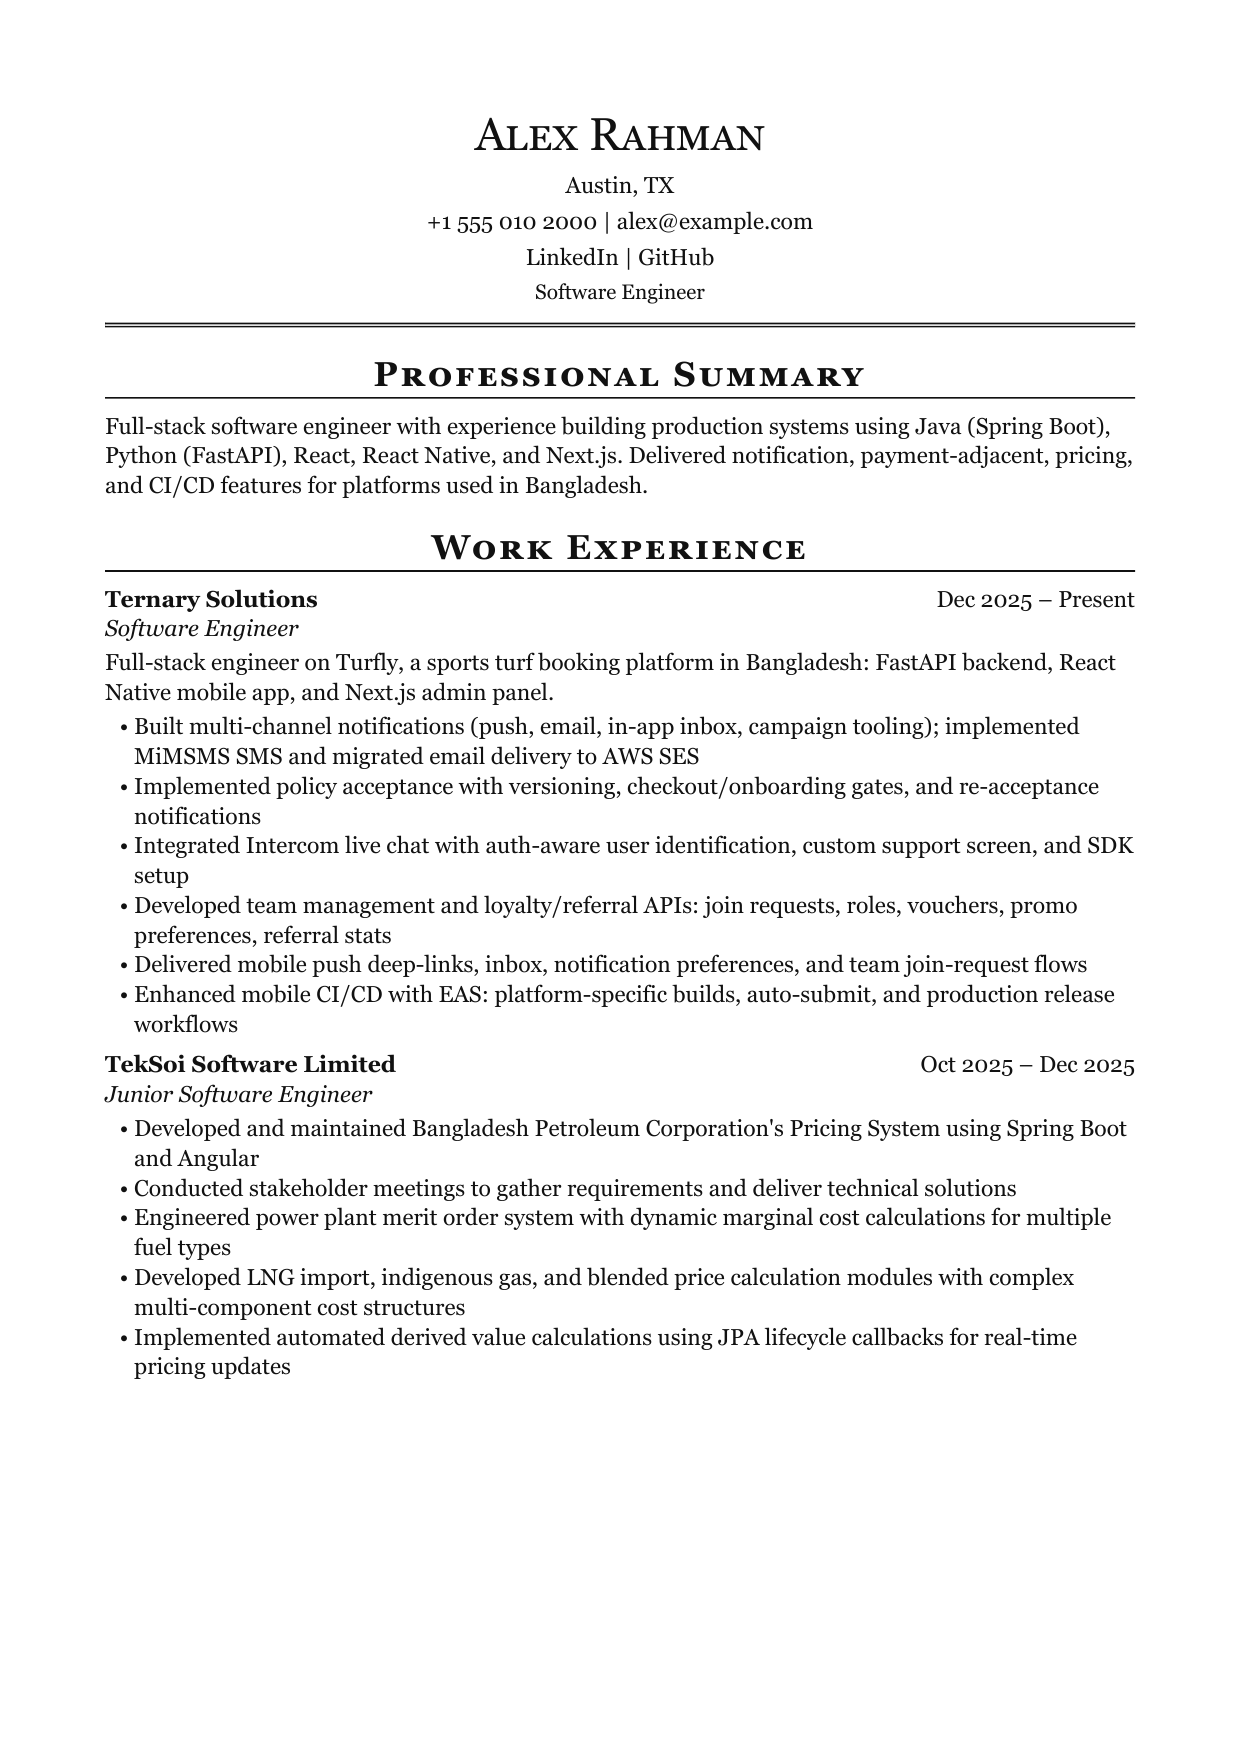
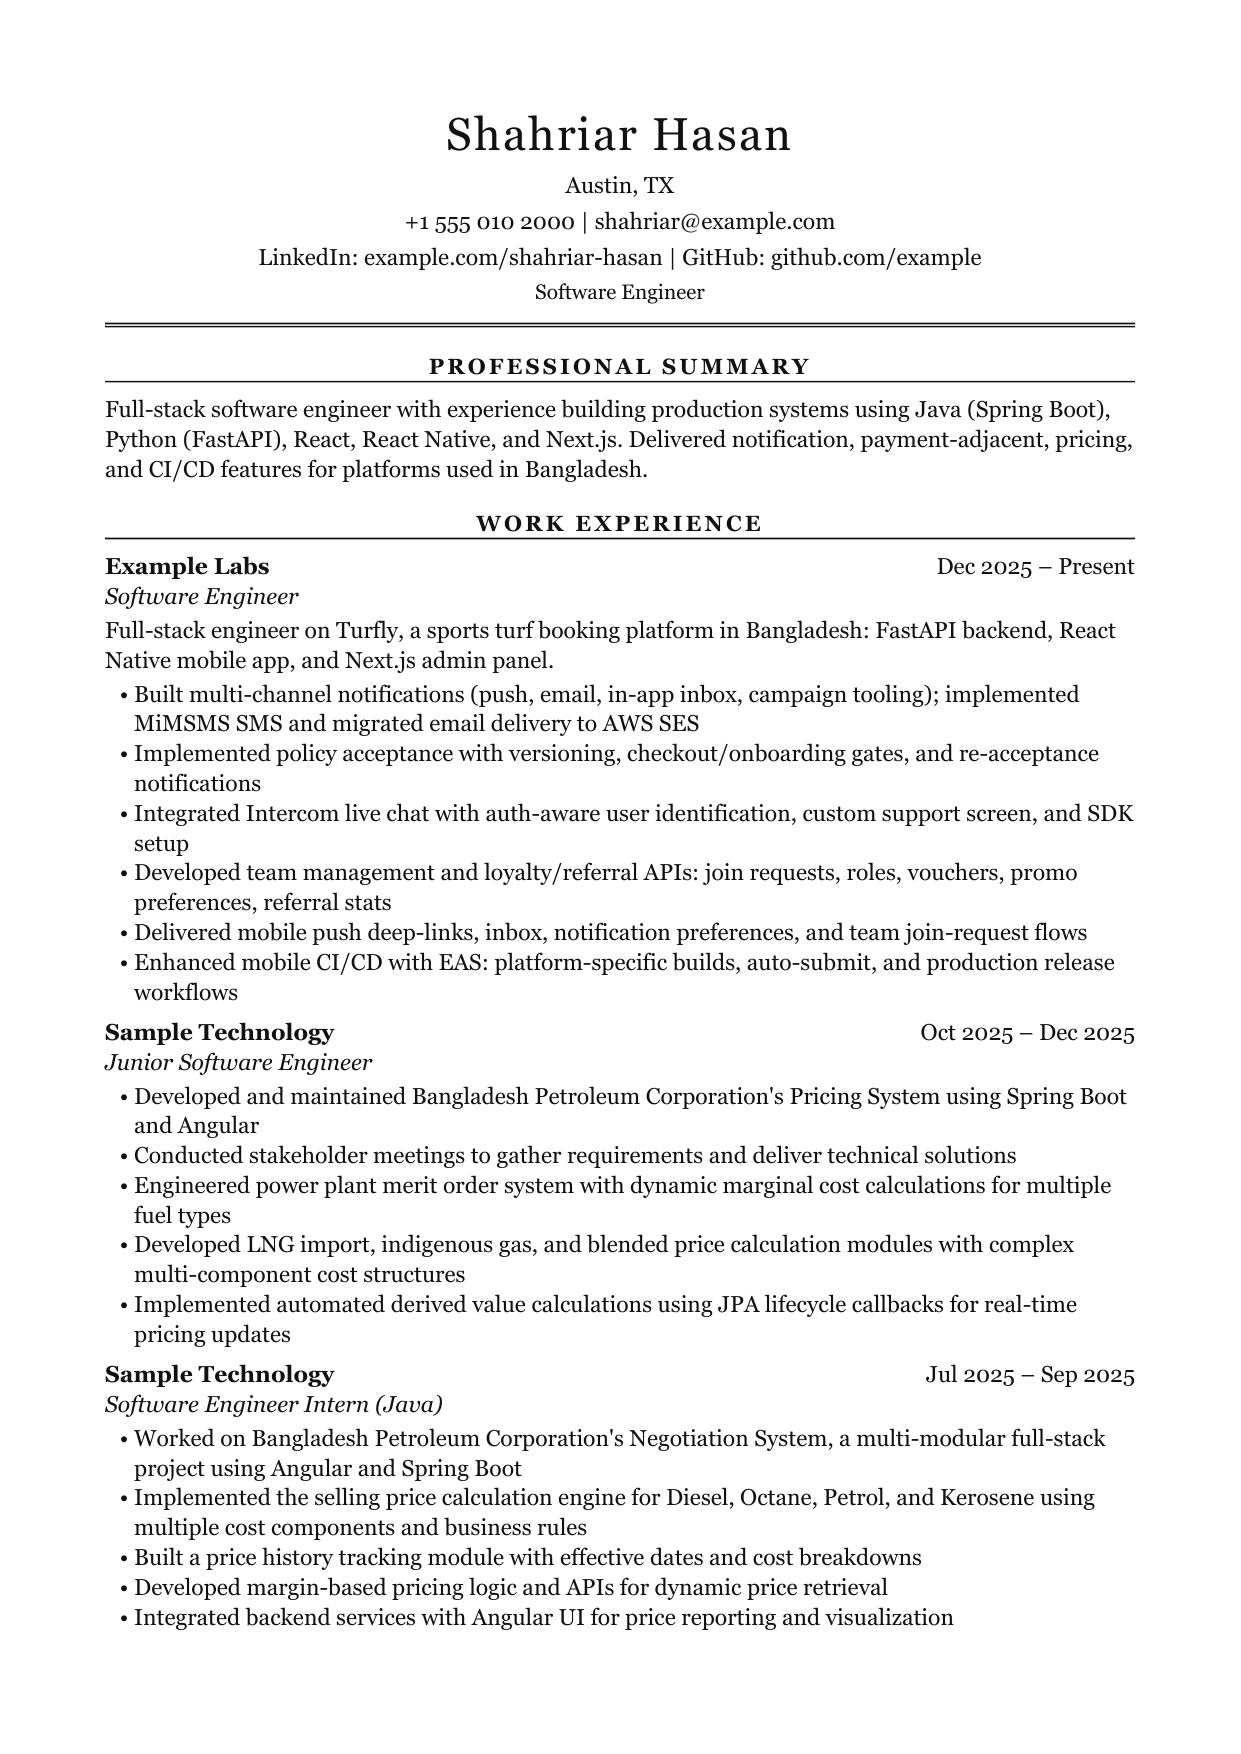
fix(builder): use neutral Shahriar Hasan sample thumbnails

diff --git a/frontend/src/features/builder/components/TemplatePicker.tsx b/frontend/src/features/builder/components/TemplatePicker.tsx
@@ -60,7 +60,7 @@ export function TemplatePicker() {
         <button
           type="button"
           onClick={() => setReloadCount((count) => count + 1)}
-          className="min-h-11 rounded-lg border border-slate-300 px-4 py-2 font-semibold text-slate-800 hover:bg-slate-50 focus-visible:outline focus-visible:outline-2 focus-visible:outline-blue-700"
+          className="min-h-11 rounded-lg border border-line px-4 py-2 font-semibold text-ink hover:bg-paper-2 focus-visible:outline focus-visible:outline-2 focus-visible:outline-accent"
         >
           Retry templates
         </button>
@@ -129,8 +129,8 @@ export function TemplatePicker() {
               </span>
             )}
             <img
-              src={`/thumbnails/${template.id}-480.webp`}
-              srcSet={`/thumbnails/${template.id}-480.webp 480w, /thumbnails/${template.id}-900.webp 900w`}
+              src={`/thumbnails/landing-${template.id}-480.webp`}
+              srcSet={`/thumbnails/landing-${template.id}-480.webp 480w, /thumbnails/landing-${template.id}-900.webp 900w`}
               sizes="(max-width: 420px) 90vw, 300px"
               alt=""
               width={480}

diff --git a/frontend/src/features/landing/sections/ParserDemo.tsx b/frontend/src/features/landing/sections/ParserDemo.tsx
@@ -20,10 +20,10 @@ function PageMock({ activeTab }: { activeTab: DemoTab }) {
       className="relative min-h-64 overflow-hidden rounded-sm border border-line bg-white p-5 shadow-paper sm:p-7"
     >
       <p className="border-b border-line pb-3 font-display text-lg font-semibold text-ink">
-        Alex Rahman
+        Shahriar Hasan
       </p>
       <p className="mt-2 border-b border-line pb-3 text-xs text-ink-muted">
-        Software Engineer · alex@example.com
+        Software Engineer · shahriar@example.com
       </p>
       {isTwoColumn ? (
         <div className="mt-5 grid grid-cols-2 gap-4">

diff --git a/frontend/src/features/landing/sections/Designs.tsx b/frontend/src/features/landing/sections/Designs.tsx
@@ -29,7 +29,7 @@ export function Designs() {
                 src={`/thumbnails/${SHEETS[template.id]}-480.webp`}
                 srcSet={`/thumbnails/${SHEETS[template.id]}-480.webp 480w, /thumbnails/${SHEETS[template.id]}-900.webp 900w`}
                 sizes="(max-width: 768px) 90vw, 360px"
-                alt={`${template.name} CV design sample for Alex Rahman`}
+                alt={`${template.name} CV design sample for Shahriar Hasan`}
                 width={900}
                 height={1272}
                 loading="lazy"

diff --git a/frontend/src/features/landing/components/SheetFan.tsx b/frontend/src/features/landing/components/SheetFan.tsx
@@ -52,7 +52,7 @@ export function SheetFan() {
               src={`${sheet.src}-480.webp`}
               srcSet={`${sheet.src}-480.webp 480w, ${sheet.src}-900.webp 900w`}
               sizes="(max-width: 768px) 76vw, 360px"
-              alt={`${sheet.label} CV sheet, with Alex Rahman sample details`}
+              alt={`${sheet.label} CV sheet, with Shahriar Hasan sample details`}
               width={900}
               height={1272}
               loading={sheet.id === selected ? 'eager' : 'lazy'}

diff --git a/frontend/src/features/landing/sections/ParserDemo.test.tsx b/frontend/src/features/landing/sections/ParserDemo.test.tsx
@@ -15,7 +15,7 @@ describe('ParserDemo', () => {
       screen.getByRole('tab', { name: 'Two-column layout' }).className,
     ).toContain('min-h-11')
     fireEvent.click(screen.getByRole('tab', { name: 'OneTap CV' }))
-    expect(panel.textContent).toContain('alex@example.com')
+    expect(panel.textContent).toContain('shahriar@example.com')
     expect(panel.textContent).toContain('EXPERIENCE')
     expect(panel.textContent).not.toContain('SKILLS  EXPERIENCE')
   })

diff --git a/frontend/src/features/landing/sections/Designs.test.tsx b/frontend/src/features/landing/sections/Designs.test.tsx
@@ -18,7 +18,7 @@ describe('Designs', () => {
       expect(link.getAttribute('href')).toBe(`/build?template=${template}`)
       expect(
         screen.getByRole('img', {
-          name: new RegExp(`${template} CV design sample for Alex Rahman`, 'i'),
+          name: new RegExp(`${template} CV design sample for Shahriar Hasan`, 'i'),
         }),
       ).not.toBeNull()
     }

diff --git a/frontend/src/features/landing/components/ParserDemoData.ts b/frontend/src/features/landing/components/ParserDemoData.ts
@@ -10,7 +10,7 @@ export const PARSER_DEMO_DATA = {
   oneTap: [
     'ALEX RAHMAN',
     'Software Engineer',
-    'alex@example.com · +880 1700 000000',
+    'shahriar@example.com · +1 555 010 2000',
     '',
     'EXPERIENCE',
     'Software Engineer — Ternary Solutions',

diff --git a/backend/tests/test_render.py b/backend/tests/test_render.py
@@ -14,29 +14,29 @@ def test_template_html_contains_contact_and_resume_content(
 ) -> None:
     html = render_html(sample_resume, template_id)
 
-    assert "MD Shahriar Hasan" in html
-    assert "shasan5525@gmail.com" in html
+    assert "Shahriar Hasan" in html
+    assert "shahriar@example.com" in html
     assert f'class="tpl-{template_id}"' in html
-    assert 'href="https://github.com/shahriar808"' in html
+    assert 'href="https://github.com/shahriar-hasan-example"' in html
     assert "GitHub" in html
     header = html.split("</header>", 1)[0]
-    assert header.index("MD Shahriar Hasan") < header.index(
-        "Banasree, Rampura, Dhaka-1219, Bangladesh"
+    assert header.index("Shahriar Hasan") < header.index(
+        "Dhaka, Bangladesh"
     )
-    assert header.index("Banasree, Rampura, Dhaka-1219, Bangladesh") < header.index(
-        "+8801763785508"
+    assert header.index("Dhaka, Bangladesh") < header.index(
+        "+1 555 010 2000"
     )
-    assert header.index("+8801763785508") < header.index("LinkedIn")
-    assert ">github.com/shahriar808<" not in header
+    assert header.index("+1 555 010 2000") < header.index("LinkedIn")
+    assert ">github.com/shahriar-hasan-example<" not in header
     experience_start = html.index("Work Experience")
-    company = html.index("Ternary Solutions", experience_start)
+    company = html.index("Example Labs", experience_start)
     position = html.index("Software Engineer", experience_start)
     if template_id == "classic":
         assert company < position
     elif template_id == "modern":
         assert position < company
     else:
-        assert "Software Engineer, Ternary Solutions" in html
+        assert "Software Engineer, Example Labs" in html
 
 
 def test_render_html_escapes_user_content(sample_resume: ResumeData) -> None:
@@ -73,11 +73,11 @@ def test_render_pdf_contains_selectable_text_in_reading_order(
 
     assert pdf.startswith(b"%PDF")
     text = pdf_text(pdf)
-    name_position = text.index("MD Shahriar Hasan")
-    email_position = text.index("shasan5525@gmail.com")
-    experience_heading = "Work Experience" if template_id == "classic" else "WORK EXPERIENCE"
+    name_position = text.index("Shahriar Hasan")
+    email_position = text.index("shahriar@example.com")
+    experience_heading = "WORK EXPERIENCE"
     experience_start = text.index(experience_heading)
-    company_position = text.index("Ternary Solutions", experience_start)
+    company_position = text.index("Example Labs", experience_start)
     position_position = text.index("Software Engineer", experience_start)
     if template_id == "classic":
         assert name_position < email_position < company_position < position_position
@@ -86,7 +86,8 @@ def test_render_pdf_contains_selectable_text_in_reading_order(
     else:
         assert name_position < email_position < company_position
     assert "GitHub" in text
-    assert "github.com/shahriar808" not in text
+    assert "linkedin.com/in/shahriar-hasan-example" in text
+    assert "github.com/shahriar-hasan-example" in text
     assert text.index("Programming Languages") < text.index("Frontend Frameworks")
 
 
@@ -100,7 +101,7 @@ def test_render_pdf_omits_disabled_sections(
 
     text = pdf_text(render_pdf(sample_resume, template_id))
 
-    assert "Ternary Solutions" in text
+    assert "Example Labs" in text
     assert "Professional Summary" not in text
     assert "Programming Languages" not in text
 

diff --git a/backend/tests/test_macros.py b/backend/tests/test_macros.py
@@ -20,28 +20,28 @@ def entry_head(**kwargs: str) -> str:
 def test_company_first_macro_preserves_dom_order() -> None:
     html = entry_head(
         layout="company_first",
-        primary="Ternary Solutions",
+        primary="Example Labs",
         secondary="Software Engineer",
         meta="Dhaka",
         dates="Dec 2025 – Present",
     )
 
-    assert html.index("Ternary Solutions") < html.index("Software Engineer")
-    assert html.index("Ternary Solutions") < html.index("Dec 2025")
+    assert html.index("Example Labs") < html.index("Software Engineer")
+    assert html.index("Example Labs") < html.index("Dec 2025")
     assert html.index("Software Engineer") < html.index("Dhaka")
 
 
 def test_inline_macro_has_no_second_line() -> None:
     html = entry_head(
         layout="inline",
-        primary="Software Engineer, Ternary Solutions, Dhaka",
+        primary="Software Engineer, Example Labs, Dhaka",
         secondary="",
         meta="",
         dates="2025",
     )
 
     assert 'class="line2"' not in html
-    assert "Software Engineer, Ternary Solutions, Dhaka" in html
+    assert "Software Engineer, Example Labs, Dhaka" in html
 
 
 def test_entry_head_skips_empty_values_and_escapes_html() -> None:
@@ -157,13 +157,13 @@ def test_projects_macro_renders_visible_links_and_compact_layout() -> None:
     standard = macro([item], "position_first")
     compact = macro([item], "inline")
 
-    assert '<a href="https://github.com/example">GitHub</a>' in standard
+    assert '<a href="https://github.com/example">GitHub: github.com/example</a>' in standard
     assert "<li>Built a feature</li>" in standard
     assert "<strong>Project</strong> - Python" in compact
     assert "Short description" in compact
-    assert '<a href="https://github.com/example">GitHub</a>' in compact
+    assert '<a href="https://github.com/example">GitHub: github.com/example</a>' in compact
     compact_line = compact.split('class="line1"', 1)[1].split("</div>", 1)[0]
-    assert ">GitHub</a>" in compact_line
+    assert ">GitHub: github.com/example</a>" in compact_line
 
 
 def test_compact_projects_omit_long_descriptions() -> None:
@@ -223,7 +223,7 @@ def test_dispatcher_renders_every_resume_section(sample_resume) -> None:
 
     assert len(rendered) == len(SECTION_LABELS)
     assert all('class="section-title"' in html for html in rendered)
-    assert any("github.com/shahriar808" in html for html in rendered)
+    assert any("github.com/shahriar-hasan-example" in html for html in rendered)
     assert any("taylor@example.com" in html for html in rendered)
 
 

diff --git a/backend/tests/test_context.py b/backend/tests/test_context.py
@@ -6,25 +6,25 @@ def test_build_context_formats_contact_and_links(sample_resume: ResumeData) -> N
     context = build_context(sample_resume)
 
     assert context["contact"] == {
-        "full_name": "MD Shahriar Hasan",
+        "full_name": "Shahriar Hasan",
         "job_title": "Software Engineer",
-        "address_line": "Banasree, Rampura, Dhaka-1219, Bangladesh",
-        "contact_line": "+8801763785508 | shasan5525@gmail.com",
+        "address_line": "Dhaka, Bangladesh",
+        "contact_line": "+1 555 010 2000 | shahriar@example.com",
         "links": [
             {
                 "label": "LinkedIn",
-                "text": "LinkedIn",
-                "href": "https://www.linkedin.com/in/shahriarhasan808/",
+                "text": "linkedin.com/in/shahriar-hasan-example",
+                "href": "https://www.linkedin.com/in/shahriar-hasan-example/",
             },
             {
                 "label": "GitHub",
-                "text": "GitHub",
-                "href": "https://github.com/shahriar808",
+                "text": "github.com/shahriar-hasan-example",
+                "href": "https://github.com/shahriar-hasan-example",
             },
             {
                 "label": "LeetCode",
-                "text": "LeetCode",
-                "href": "https://leetcode.com/u/MD_Shahriar_Hasan",
+                "text": "leetcode.com/u/shahriar_hasan_example",
+                "href": "https://leetcode.com/u/shahriar_hasan_example",
             },
         ],
     }
@@ -45,7 +45,7 @@ def test_build_context_skips_empty_contact_parts(sample_resume: ResumeData) -> N
 
     assert context["contact"]["address_line"] == ""  # type: ignore[index]
     assert context["contact"]["contact_line"] == (  # type: ignore[index]
-        "+8801763785508 | shasan5525@gmail.com"
+        "+1 555 010 2000 | shahriar@example.com"
     )
 
 
@@ -153,7 +153,7 @@ def test_build_context_formats_project_links_and_interests(
     assert sections["projects"]["items"][0]["links"] == [
         {
             "label": "GitHub",
-            "text": "GitHub",
+            "text": "github.com/example",
             "href": "https://github.com/example/",
         }
     ]

diff --git a/backend/scripts/make_thumbnails.py b/backend/scripts/make_thumbnails.py
@@ -11,27 +11,25 @@ from app.templates_engine.registry import TEMPLATES
 
 BACKEND_DIR = Path(__file__).parents[1]
 REPOSITORY_ROOT = BACKEND_DIR.parent
-SAMPLE_PATH = BACKEND_DIR / "tests" / "fixtures" / "sample_resume.json"
 LANDING_SAMPLE_PATH = BACKEND_DIR / "tests" / "fixtures" / "landing_sample.json"
 OUTPUT_DIR = REPOSITORY_ROOT / "frontend" / "public" / "thumbnails"
 
 
 def main() -> None:
     parser = argparse.ArgumentParser()
-    parser.add_argument("--landing", action="store_true", help="Generate neutral landing page samples")
-    args = parser.parse_args()
+    parser = argparse.ArgumentParser(description="Generate neutral public template thumbnails.")
+    parser.parse_args()
     pdftoppm = shutil.which("pdftoppm")
     if pdftoppm is None:
         raise RuntimeError("pdftoppm is required to generate template thumbnails")
 
-    sample_path = LANDING_SAMPLE_PATH if args.landing else SAMPLE_PATH
-    data = ResumeData.model_validate_json(sample_path.read_text(encoding="utf-8"))
+    data = ResumeData.model_validate_json(LANDING_SAMPLE_PATH.read_text(encoding="utf-8"))
     OUTPUT_DIR.mkdir(parents=True, exist_ok=True)
 
     with tempfile.TemporaryDirectory() as temporary_directory:
         temporary_path = Path(temporary_directory)
         for template_id in TEMPLATES:
-            filename = f"landing-{template_id}" if args.landing else template_id
+            filename = f"landing-{template_id}"
             pdf_path = temporary_path / f"{filename}.pdf"
             prefix = temporary_path / filename
             pdf_path.write_bytes(render_pdf(data, template_id))
@@ -40,7 +38,7 @@ def main() -> None:
                     pdftoppm,
                     "-png",
                     "-r",
-                    "150" if args.landing else "60",
+                    "150",
                     "-f",
                     "1",
                     "-l",

diff --git a/backend/tests/test_privacy.py b/backend/tests/test_privacy.py
@@ -15,8 +15,8 @@ def test_resume_content_is_not_written_to_logs(
     response = TestClient(app).post("/api/resume/preview", json=sample_data)
 
     assert response.status_code == 200
-    assert "MD Shahriar Hasan" not in caplog.text
-    assert "shasan5525@gmail.com" not in caplog.text
+    assert "Shahriar Hasan" not in caplog.text
+    assert "shahriar@example.com" not in caplog.text
 
 
 def test_unexpected_error_returns_clean_server_message(
@@ -24,7 +24,7 @@ def test_unexpected_error_returns_clean_server_message(
     monkeypatch,
 ) -> None:
     def fail_render(data, template_id):
-        raise RuntimeError("private user content: MD Shahriar Hasan")
+        raise RuntimeError("private user content: Shahriar Hasan")
 
     monkeypatch.setattr(api.resume, "render_pdf", fail_render)
     client = TestClient(app, raise_server_exceptions=False)
@@ -33,4 +33,4 @@ def test_unexpected_error_returns_clean_server_message(
 
     assert response.status_code == 500
     assert response.json() == {"detail": "Server error"}
-    assert "MD Shahriar Hasan" not in response.text
+    assert "Shahriar Hasan" not in response.text
